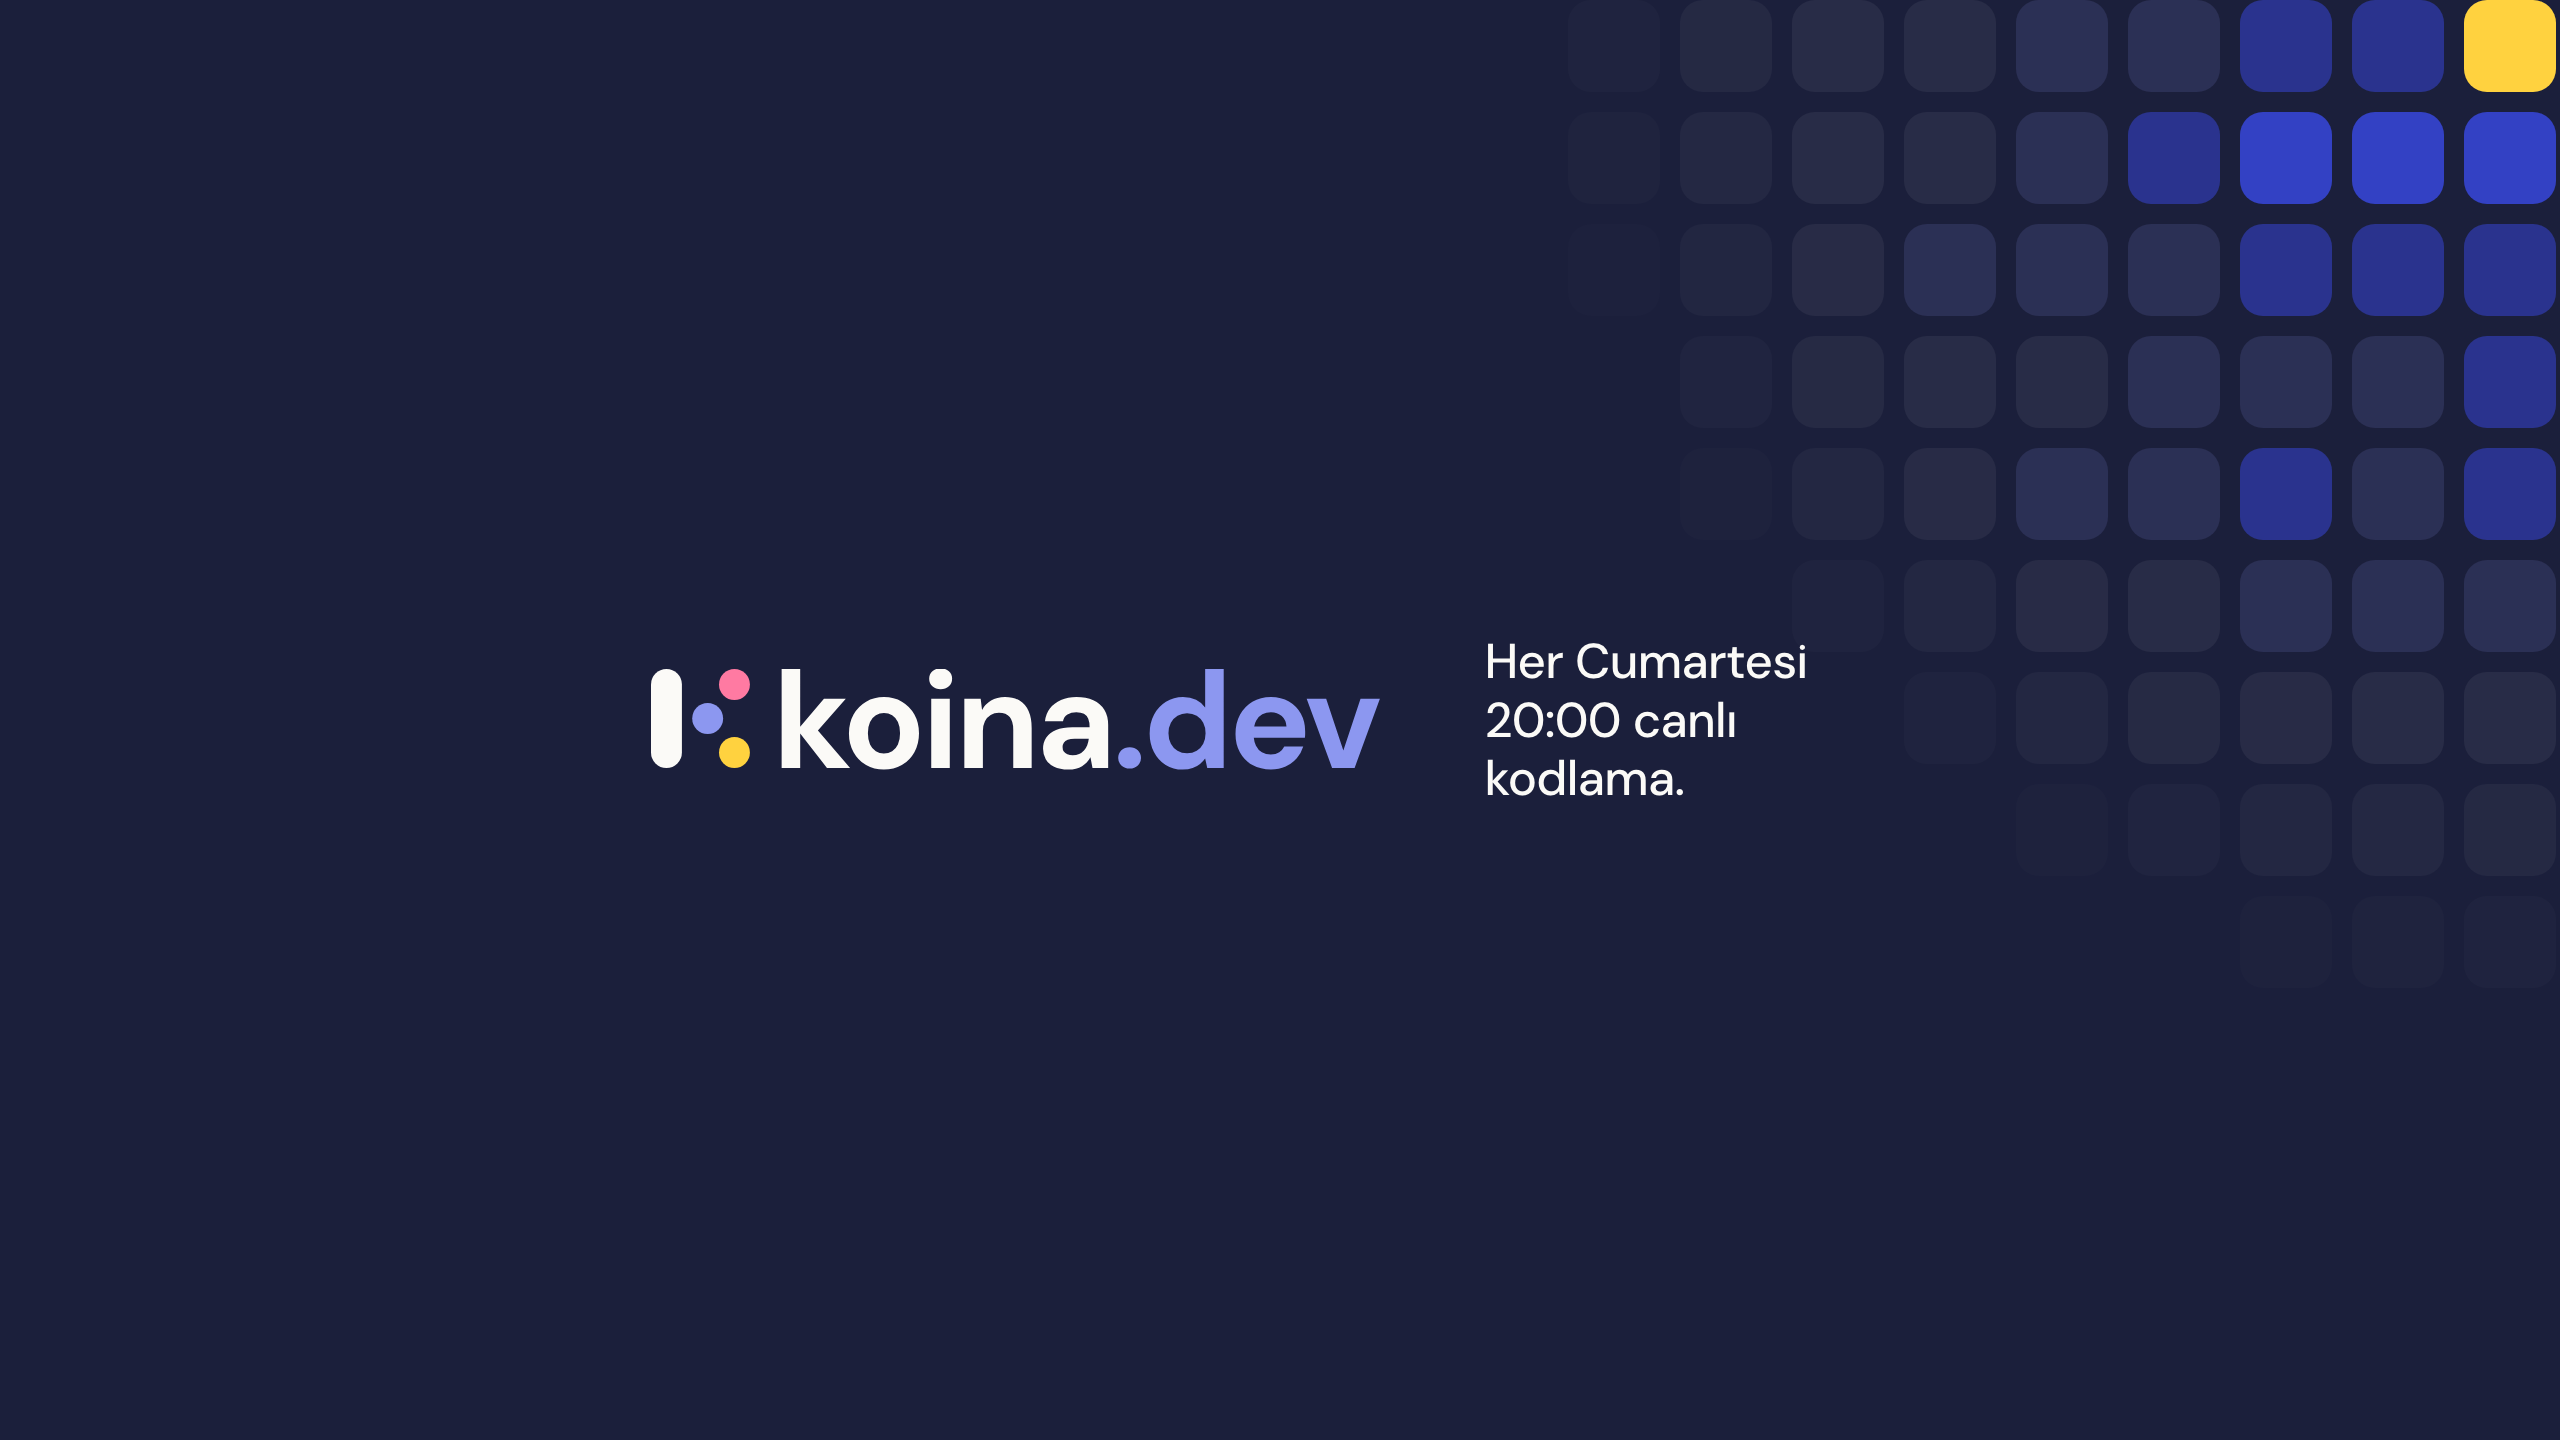
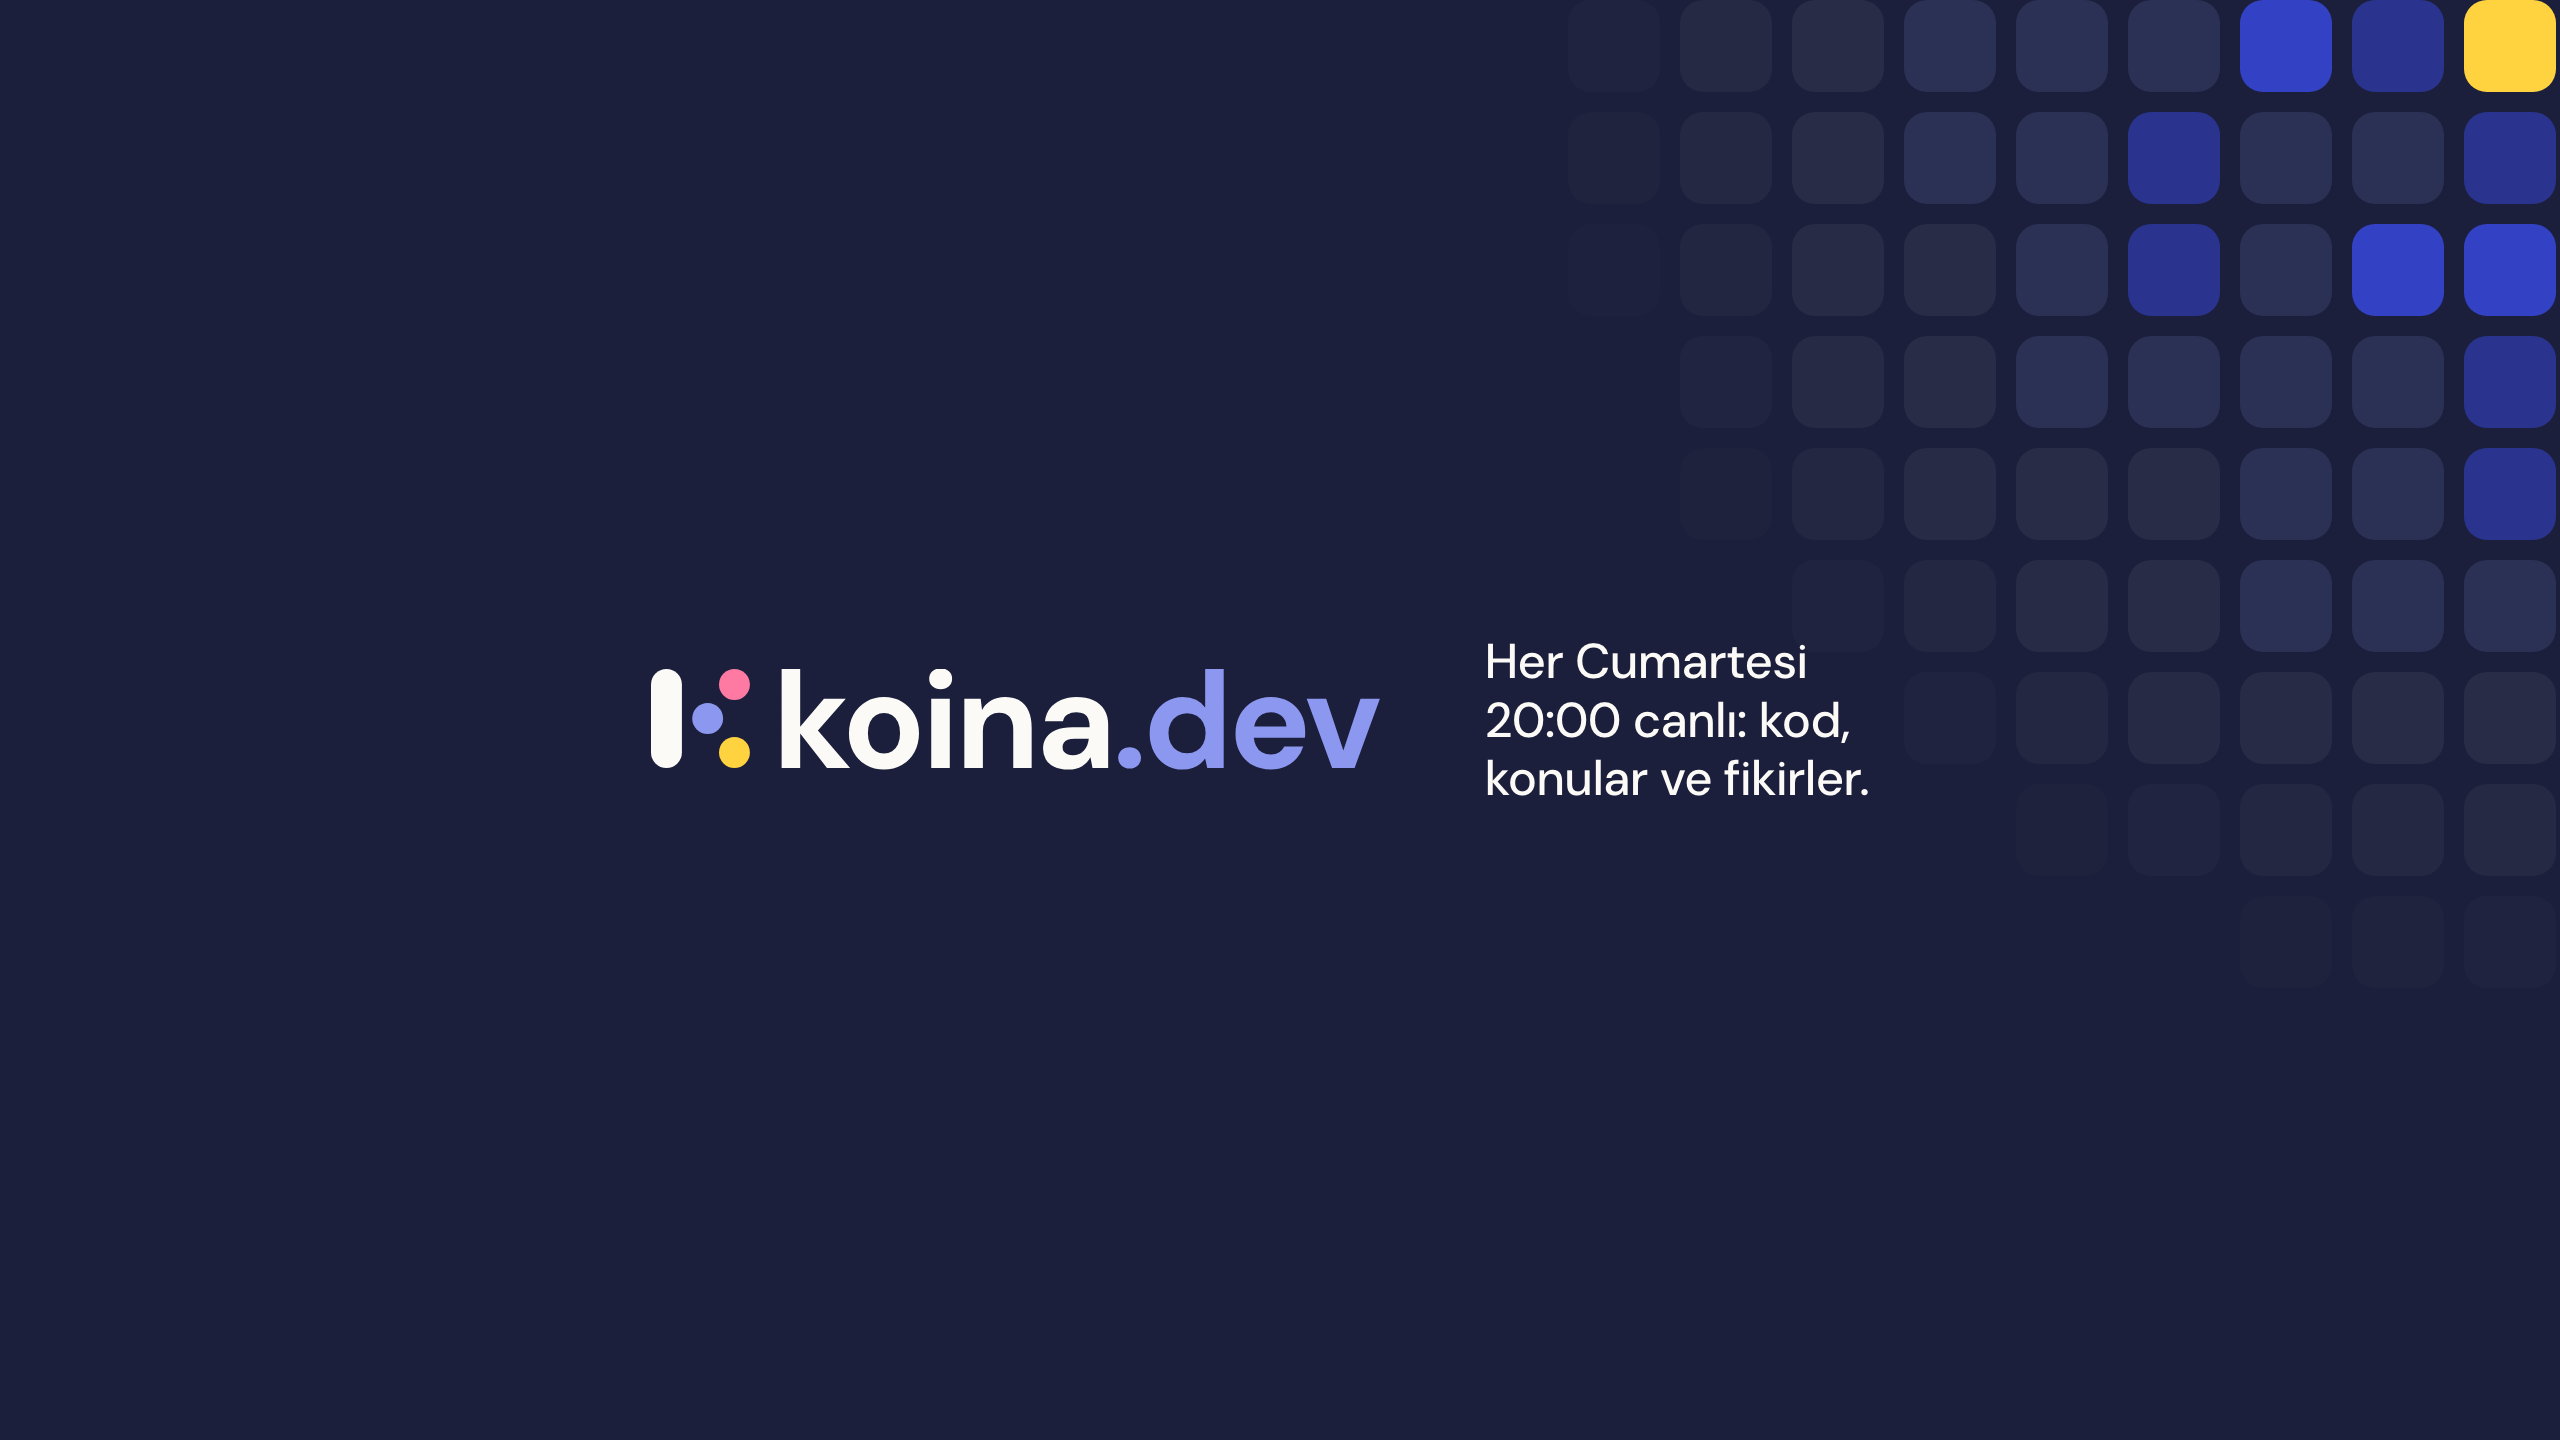
feat(social): YouTube kapağı yayın içeriğini anlatır: kod, konular ve fikirler

Changed region(s): [[0.8125, 0.0, 1.0, 0.2188], [0.5938, 0.4688, 0.7188, 0.5625], [0.875, 0.3125, 0.9375, 0.375]]

diff --git a/social/scripts/specs.ts b/social/scripts/specs.ts
@@ -24,7 +24,7 @@ export const specs: Spec[] = [
   { group: 'profile', name: 'x-header', kind: 'banner', size: 'x-header', data: { tagline: 'Geliştiricilerle fikir sahipleri aynı repoda.', align: 'end' } },
   { group: 'profile', name: 'linkedin-banner', kind: 'banner', size: 'linkedin-banner', data: { tagline: 'Geliştiricilerle fikir sahiplerini buluşturan topluluk.', align: 'end' } },
   { group: 'profile', name: 'linkedin-company-cover', kind: 'banner', size: 'linkedin-company-cover', data: { tagline: 'Geliştiricilerle fikir sahiplerini buluşturan topluluk.', align: 'end' } },
-  { group: 'profile', name: 'yt-banner', kind: 'banner', size: 'yt-banner', theme: 'dark', data: { tagline: 'Her Cumartesi 20:00 canlı kodlama.' } },
+  { group: 'profile', name: 'yt-banner', kind: 'banner', size: 'yt-banner', theme: 'dark', data: { tagline: 'Her Cumartesi 20:00 canlı: kod, konular ve fikirler.' } },
   { group: 'profile', name: 'discord-splash', kind: 'banner', size: 'discord-splash', theme: 'dark', data: { tagline: 'Yayın sohbeti burada. Gel, tanış.' } },
   { group: 'profile', name: 'og-default', kind: 'announce', size: 'og', data: { title: 'Aynı repoda buluşalım.', body: launch.body } },
 
